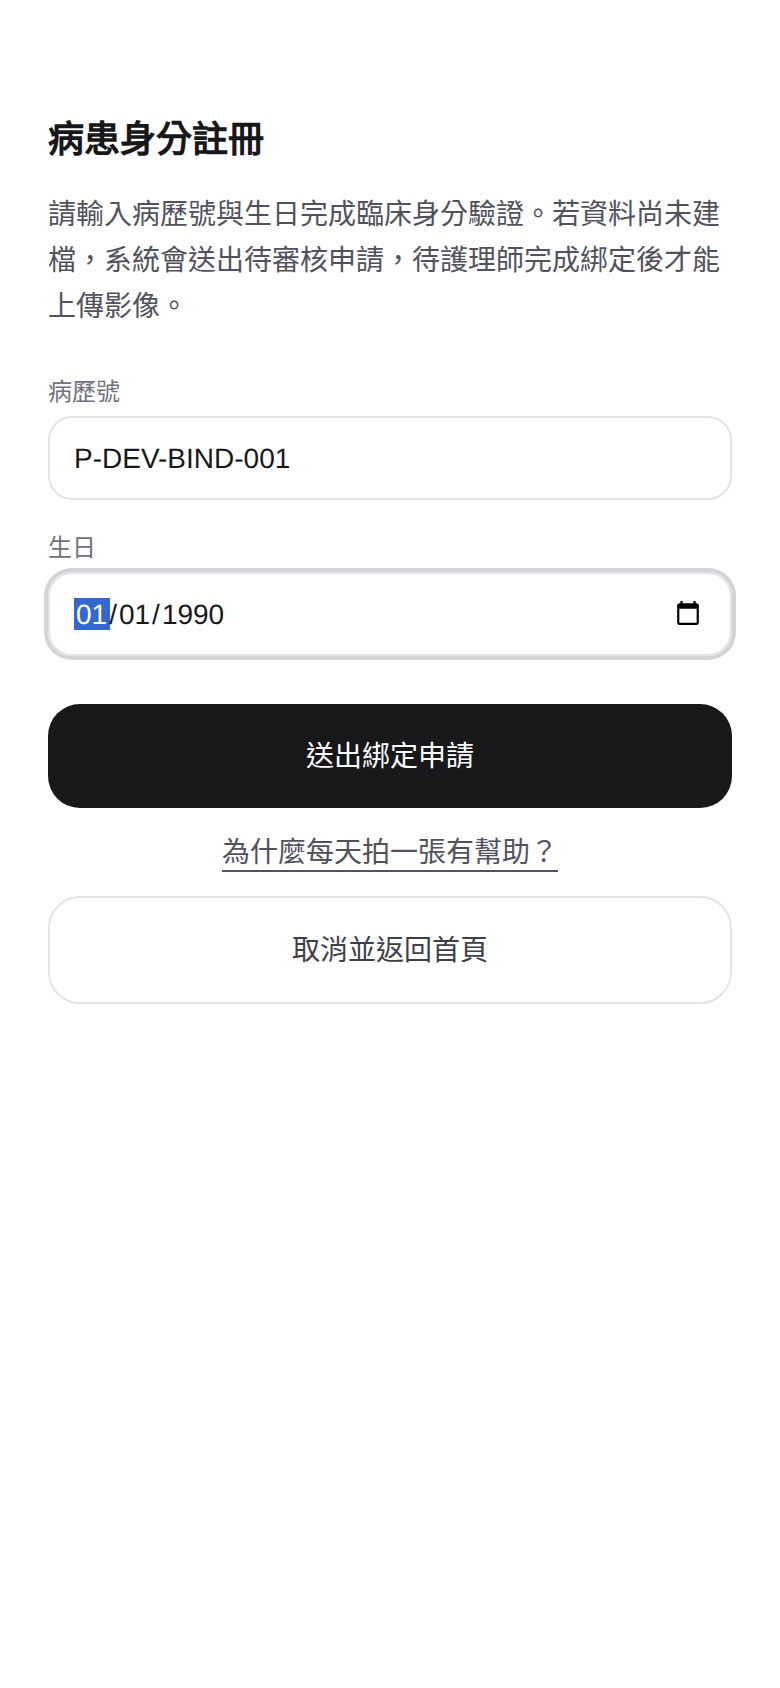
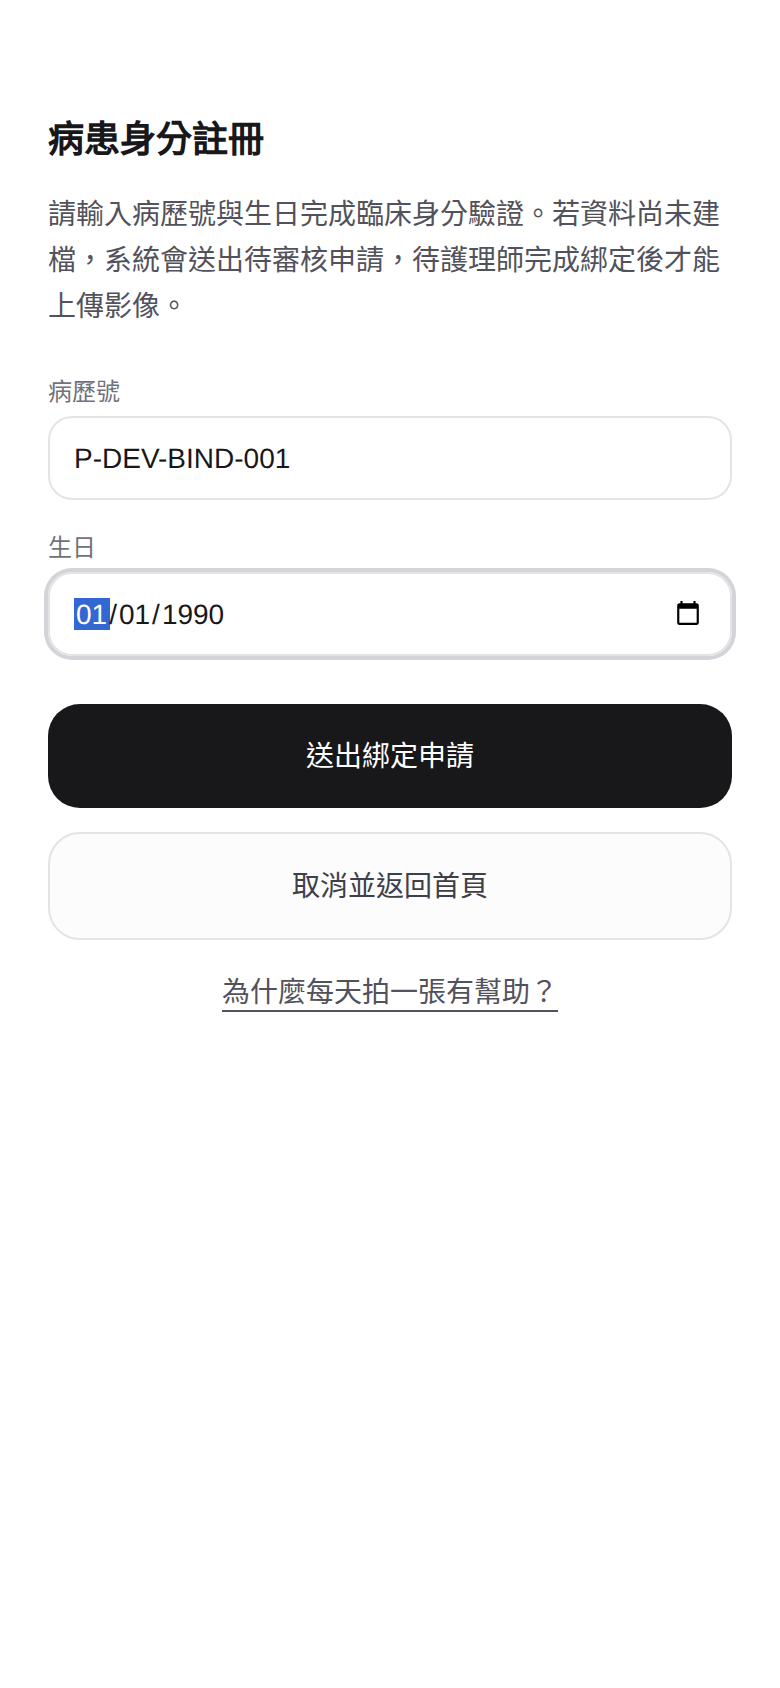
fix(patient): move bind-form blog link below both buttons
The value-post link sat between bind and cancel, so it looked like a third action. Keep cancel with the buttons and put the how-to link after them.

Changed region(s): [[0.2769, 0.4929, 0.7077, 0.6161]]

diff --git a/apps/frontend/app/patient/patient-home.tsx b/apps/frontend/app/patient/patient-home.tsx
@@ -565,17 +565,17 @@ export default function PatientHome({ latestNewsPost }: PatientHomeProps) {
       </button>
 
       <Link
-        href={`/blog/${encodeURIComponent(VALUE_POST_SLUG)}`}
-        className="mt-3 text-center text-sm font-medium text-zinc-600 underline underline-offset-4"
-      >
-        {UNBOUND_VALUE_LINK_LABEL}
-      </Link>
-
-      <Link
         href="/"
         className="mt-3 flex items-center justify-center w-full py-4 rounded-2xl border border-zinc-200 text-zinc-700 text-sm font-medium hover:bg-zinc-50 transition-colors"
       >
         取消並返回首頁
+      </Link>
+
+      <Link
+        href={`/blog/${encodeURIComponent(VALUE_POST_SLUG)}`}
+        className="mt-4 text-center text-sm font-medium text-zinc-600 underline underline-offset-4"
+      >
+        {UNBOUND_VALUE_LINK_LABEL}
       </Link>
     </div>
   );

diff --git a/apps/frontend/app/onboarding/patient/page.tsx b/apps/frontend/app/onboarding/patient/page.tsx
@@ -194,17 +194,17 @@ function PatientOnboardingPageInner() {
       </button>
 
       <Link
-        href={`/blog/${encodeURIComponent(VALUE_POST_SLUG)}`}
-        className="mt-3 text-center text-sm font-medium text-zinc-600 underline underline-offset-4"
-      >
-        {UNBOUND_VALUE_LINK_LABEL}
-      </Link>
-
-      <Link
         href="/"
         className="mt-3 flex items-center justify-center w-full py-4 rounded-2xl border border-zinc-200 text-zinc-700 text-sm font-medium hover:bg-zinc-50 transition-colors"
       >
         取消並返回首頁
+      </Link>
+
+      <Link
+        href={`/blog/${encodeURIComponent(VALUE_POST_SLUG)}`}
+        className="mt-4 text-center text-sm font-medium text-zinc-600 underline underline-offset-4"
+      >
+        {UNBOUND_VALUE_LINK_LABEL}
       </Link>
     </div>
   );
